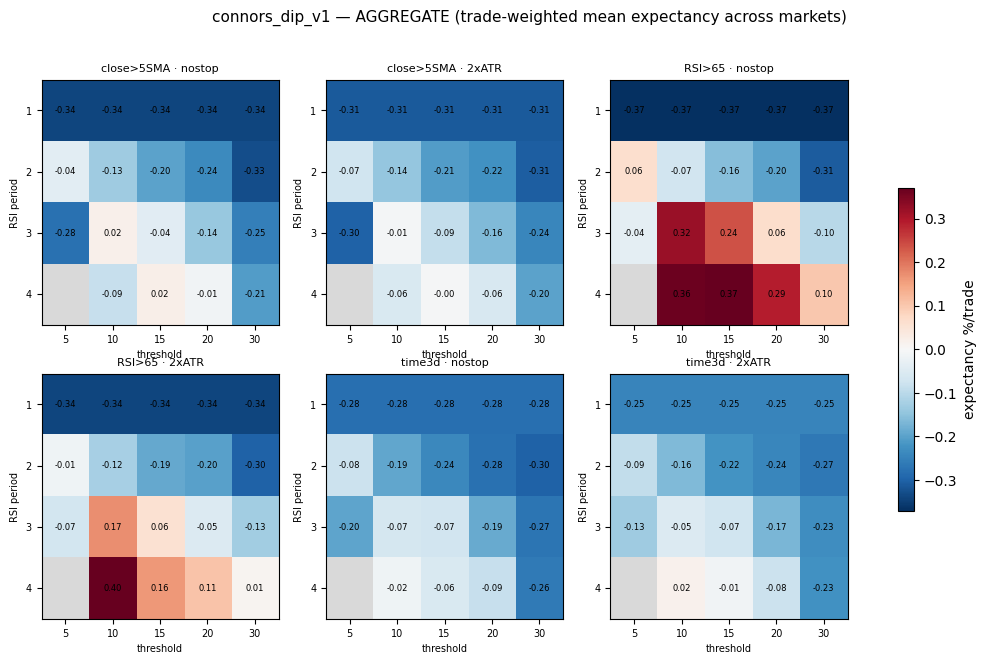
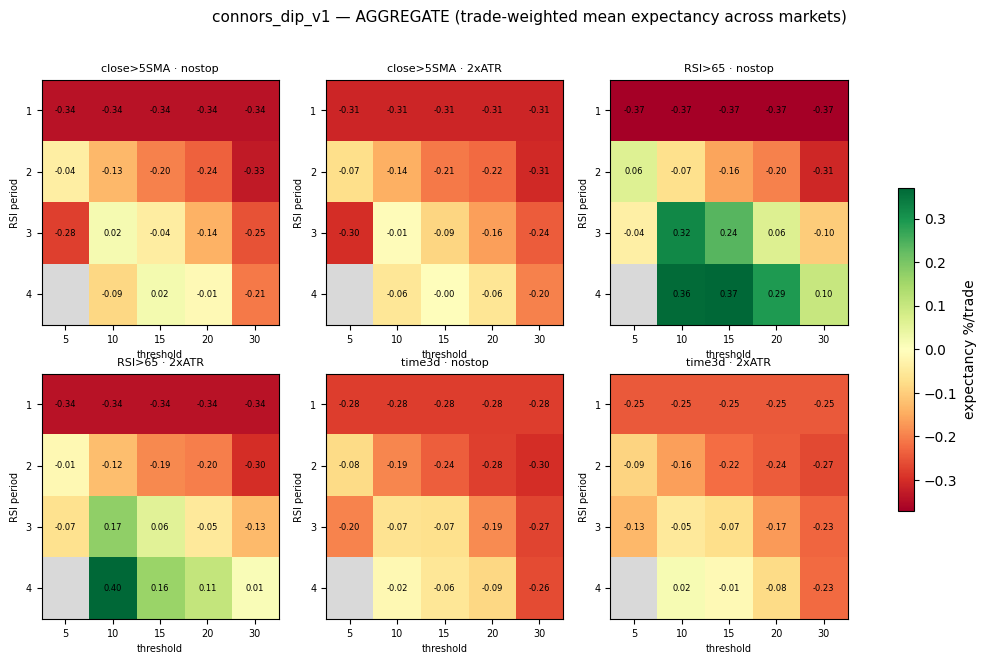
Experiment 01: recolour aggregate heatmap to conventional finance colours
Swap the regenerated aggregate heatmap (red=loss, yellow=break-even,
green=profit; grey=too few trades) for the old blue/red version, and
update the section 6 caption to match. Plotting/colour change only —
no numbers, claims, or paper structure altered.

diff --git a/experiments/01-index-dip-buying/README.md b/experiments/01-index-dip-buying/README.md
@@ -241,12 +241,12 @@ and **moderate rather than extreme** oversold thresholds.
 *Every strategy variant tested, averaged across the ten markets. Each of the six panels is one
 combination of exit rule and stop-loss; within a panel, rows are the RSI lookback (1–4 days)
 and columns are how deep the oversold reading has to go (RSI below 5 through 30). Each cell's
-colour is its average profit or loss per trade after costs — blue is a loss, red is a profit,
-white is roughly break-even. The thing to notice is how overwhelmingly blue the grid is: the
-two textbook exits (top-left and bottom-row panels) are underwater almost everywhere. The only
-sustained patch of red sits in the two "sell when RSI recovers above 65" panels, at the longer
-3–4-day lookbacks and middling thresholds — that red island is the surviving strategy discussed
-below.*
+colour is its average profit or loss per trade after costs — red is a loss, yellow is roughly
+break-even, green is a profit, and grey marks cells with too few trades to interpret. The thing
+to notice is how overwhelmingly red the grid is: the two textbook exits (top-left and bottom-row
+panels) are underwater almost everywhere. The only sustained patch of green sits in the two "sell
+when RSI recovers above 65" panels, at the longer 3–4-day lookbacks and middling thresholds —
+that green island is the surviving strategy discussed below.*
 
 | Index | Average expectancy in that region |
 |---|---|
